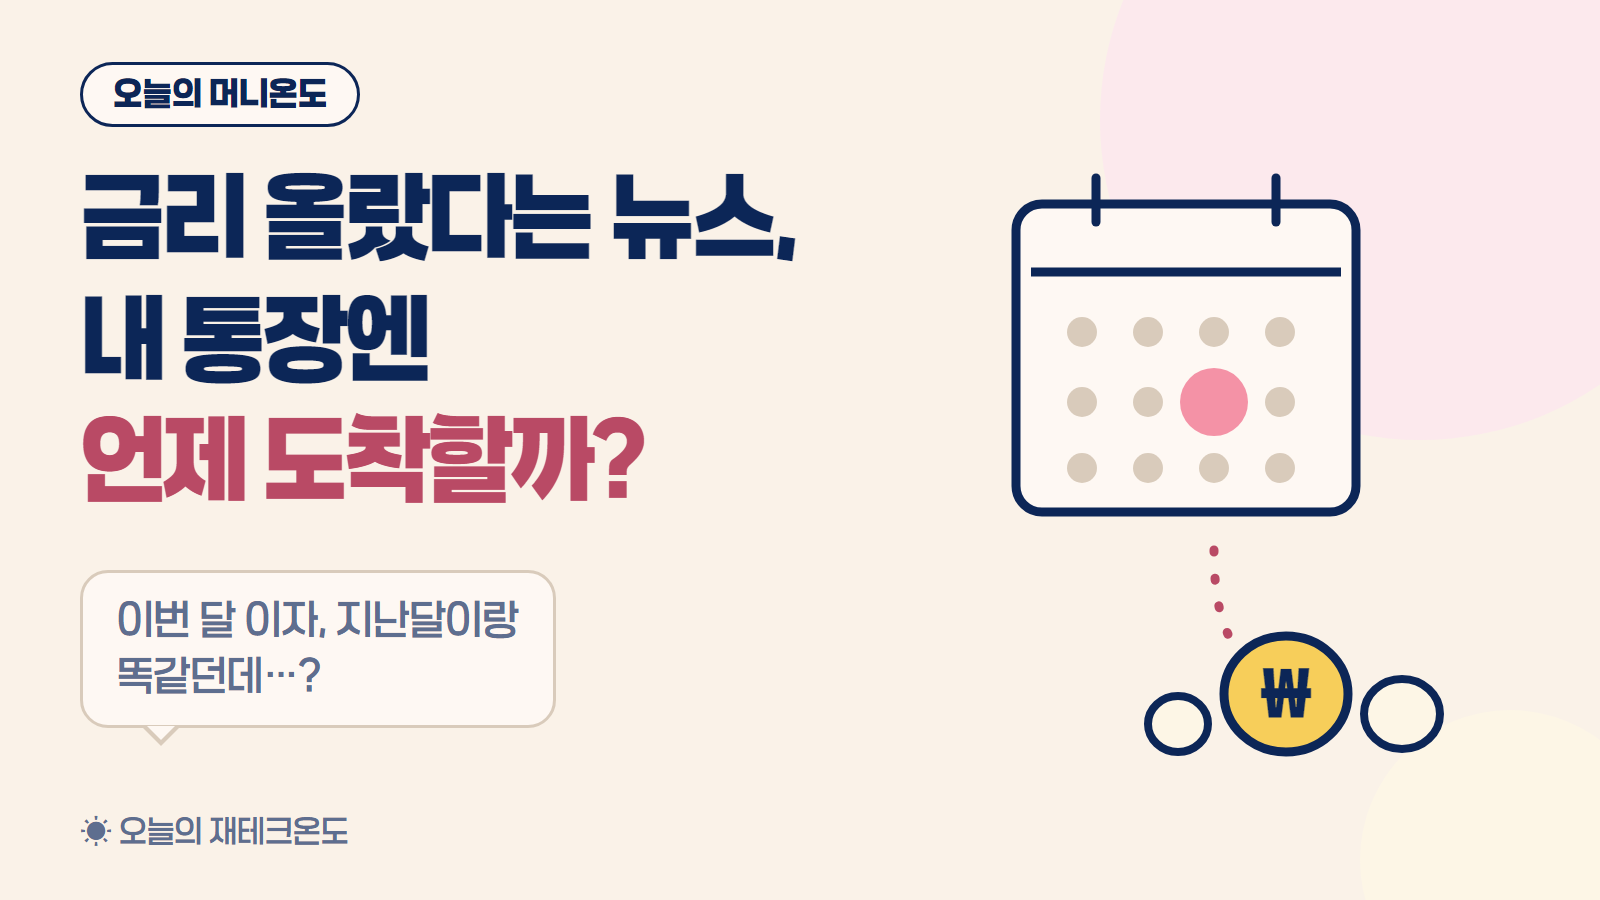
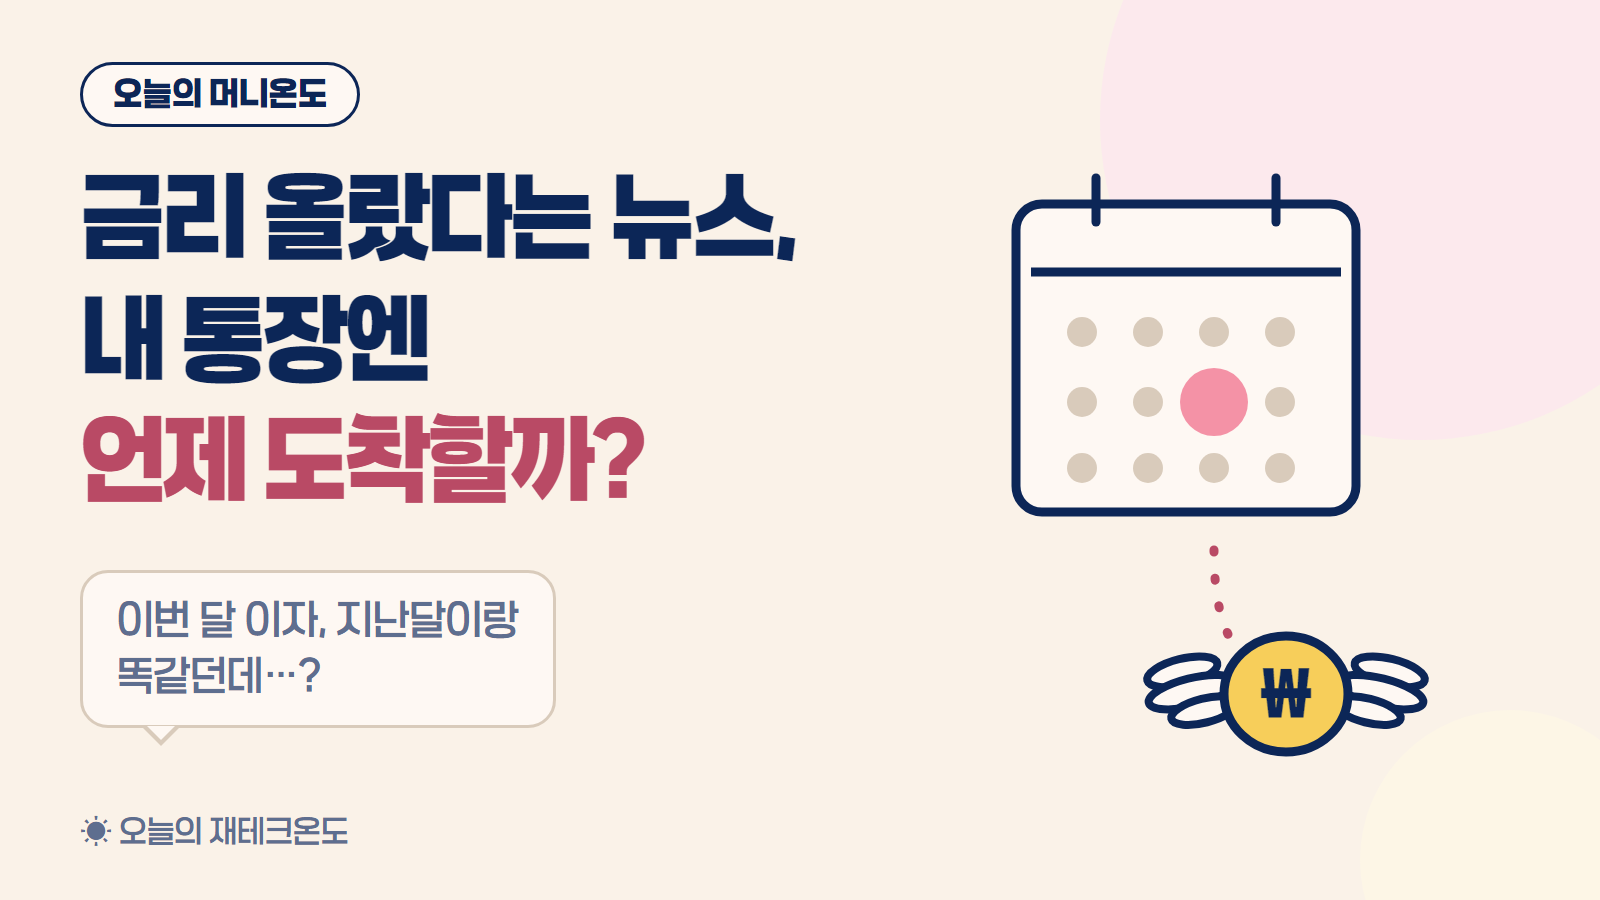
moneyweather: 썸네일 동전에 날개 — 의미 없던 동그라미 교체
동전 옆에 있던 옅은 동그라미 둘은 「뒤따라오는 동전」이었는데,
테두리만 있고 안이 비어서 동전으로 안 읽혔다. 그냥 동그라미였다.
그림에서 아무 일도 안 하면서 자리만 차지하고 있었다.

날개로 바꿨다. 「돈이 빠져나간다」가 한 번에 읽힌다.
달력의 그날 → 점선 → 날개 달린 돈, 으로 이야기가 이어진다.

목록 320px과 모바일 200px에서도 날개 형태가 남는 것을 확인했다.
글자는 작아지면 뭉개지지만 형태는 남는다. (CLAUDE.md §41.2)

Changed region(s): [[0.6875, 0.7156, 0.7812, 0.84], [0.8438, 0.7156, 0.9062, 0.84]]

diff --git a/MONEYWEATHER/04_이미지/2026-09-05_기준금리3.00_대출금리_반영시점/_소스/01_썸네일.html b/MONEYWEATHER/04_이미지/2026-09-05_기준금리3.00_대출금리_반영시점/_소스/01_썸네일.html
@@ -112,18 +112,26 @@
         style="stroke:var(--rose)" stroke-width="9" stroke-linecap="round"
         stroke-dasharray="2 26"/>
 
-  <!-- 그제야 떨어지는 동전 -->
+  <!-- 날개 — 그날이 오면 이 돈이 빠져나간다 -->
+  <g stroke-width="8" stroke-linejoin="round" style="stroke:var(--navy-d);fill:var(--ivory)">
+    <g transform="translate(268 524) rotate(-14)">
+      <ellipse cx="-38" cy="-20" rx="36" ry="13"/>
+      <ellipse cx="-34" cy="2"   rx="44" ry="14"/>
+      <ellipse cx="-26" cy="23"  rx="34" ry="12"/>
+    </g>
+    <g transform="translate(392 524) rotate(14) scale(-1 1)">
+      <ellipse cx="-38" cy="-20" rx="36" ry="13"/>
+      <ellipse cx="-34" cy="2"   rx="44" ry="14"/>
+      <ellipse cx="-26" cy="23"  rx="34" ry="12"/>
+    </g>
+  </g>
+  <!-- 날개 위에 올라탄 동전 -->
   <g stroke-width="9" style="stroke:var(--navy-d)">
     <ellipse cx="330" cy="536" rx="62" ry="58" style="fill:var(--gold)"/>
   </g>
   <text x="330" y="558" font-size="60" font-weight="700" text-anchor="middle"
         font-family="'알림장',sans-serif" style="fill:var(--navy-d)">₩</text>
 
-  <!-- 작은 동전 둘 — 뒤따라온다 -->
-  <g stroke-width="8" style="stroke:var(--navy-d)">
-    <ellipse cx="446" cy="556" rx="38" ry="35" style="fill:var(--gold-bg)"/>
-    <ellipse cx="222" cy="566" rx="30" ry="28" style="fill:var(--gold-bg)"/>
-  </g>
 </svg>
 
 <div class="brand">☀ 오늘의 재테크온도</div>
